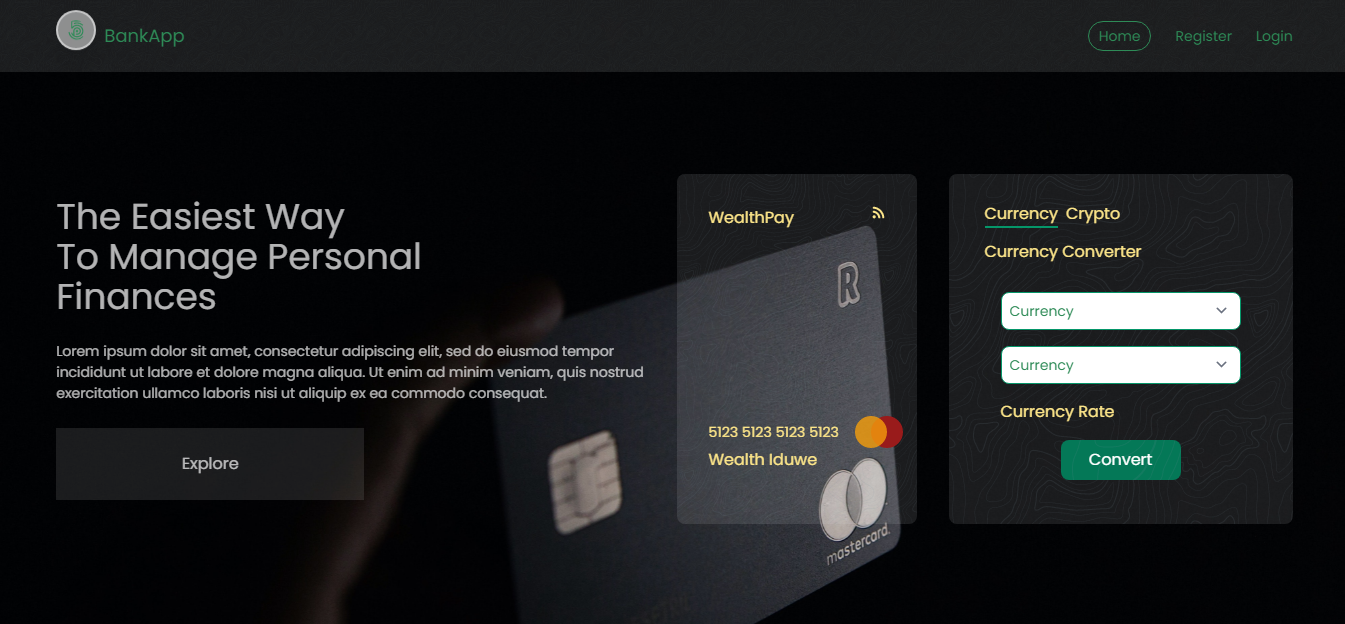
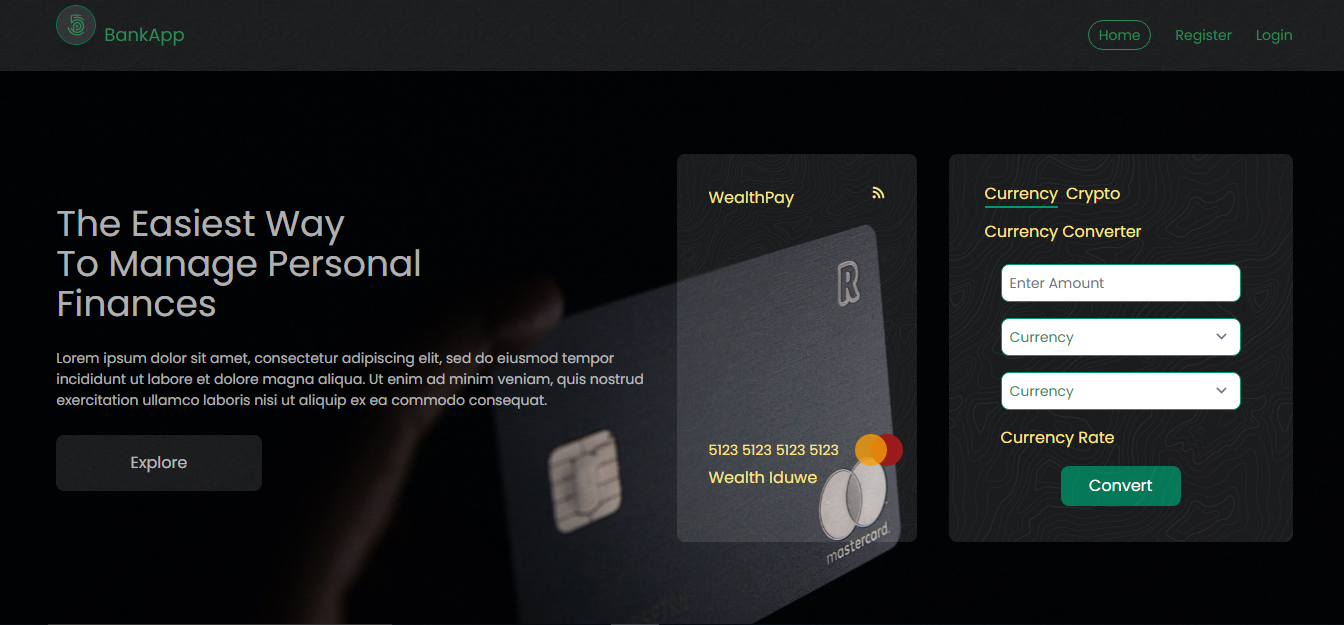
Updated Readme

diff --git a/src/components/Home.js b/src/components/Home.js
@@ -79,10 +79,15 @@ const Home = () => {
 
               <p>{type === 1 ? 'Currency Converter' : 'Crypto Converter'}</p>
 
-              <form className=' flex flex-col py-4 px-4  gap-4 '>
+              <form className=' flex flex-col py-2 px-4  gap-4 '>
                 {type === 1 ? (
                   <>
                     {' '}
+                    <input
+                      type='text'
+                      placeholder='Enter Amount '
+                      className='py-2 px-2 text-sm lg-text-base greentxt animate-slideIn w-full border border-green-600 focus:outline-none focus:ring-green-500 focus:border-green-500 rounded-lg'
+                    />
                     <select
                       className='py-2 px-2 text-sm lg-text-base greentxt animate-slideIn w-full border border-green-600 focus:outline-none focus:ring-green-500 focus:border-green-500 rounded-lg'
                       // value={selected.type}

diff --git a/README.md b/README.md
@@ -1,70 +1,21 @@
-# Getting Started with Create React App
+# Banking App
 
-This project was bootstrapped with [Create React App](https://github.com/facebook/create-react-app).
+# This Project was built using React Js.
 
-## Available Scripts
+## Available Technologies on the App
 
-In the project directory, you can run:
+REDUX, TAilWIND CSS, FIREBASE (AUTH & FIRESTORE), REACT HOOKS, CONTEXT,
 
-### `yarn start`
+## Features
 
-Runs the app in the development mode.\
-Open [http://localhost:3000](http://localhost:3000) to view it in the browser.
+User Authentication ✔
+Protected Route ✔
+Real Time Transactions ✔
+Animations ✔
+Responsiveness ✔
+Redux For State Management ✔
+Sleek User Experience ✔
 
-The page will reload if you make edits.\
-You will also see any lint errors in the console.
+![Banking App](page.png?raw=true 'Banking ')
 
-### `yarn test`
-
-Launches the test runner in the interactive watch mode.\
-See the section about [running tests](https://facebook.github.io/create-react-app/docs/running-tests) for more information.
-
-### `yarn build`
-
-Builds the app for production to the `build` folder.\
-It correctly bundles React in production mode and optimizes the build for the best performance.
-
-The build is minified and the filenames include the hashes.\
-Your app is ready to be deployed!
-
-See the section about [deployment](https://facebook.github.io/create-react-app/docs/deployment) for more information.
-
-### `yarn eject`
-
-**Note: this is a one-way operation. Once you `eject`, you can’t go back!**
-
-If you aren’t satisfied with the build tool and configuration choices, you can `eject` at any time. This command will remove the single build dependency from your project.
-
-Instead, it will copy all the configuration files and the transitive dependencies (webpack, Babel, ESLint, etc) right into your project so you have full control over them. All of the commands except `eject` will still work, but they will point to the copied scripts so you can tweak them. At this point you’re on your own.
-
-You don’t have to ever use `eject`. The curated feature set is suitable for small and middle deployments, and you shouldn’t feel obligated to use this feature. However we understand that this tool wouldn’t be useful if you couldn’t customize it when you are ready for it.
-
-## Learn More
-
-You can learn more in the [Create React App documentation](https://facebook.github.io/create-react-app/docs/getting-started).
-
-To learn React, check out the [React documentation](https://reactjs.org/).
-
-### Code Splitting
-
-This section has moved here: [https://facebook.github.io/create-react-app/docs/code-splitting](https://facebook.github.io/create-react-app/docs/code-splitting)
-
-### Analyzing the Bundle Size
-
-This section has moved here: [https://facebook.github.io/create-react-app/docs/analyzing-the-bundle-size](https://facebook.github.io/create-react-app/docs/analyzing-the-bundle-size)
-
-### Making a Progressive Web App
-
-This section has moved here: [https://facebook.github.io/create-react-app/docs/making-a-progressive-web-app](https://facebook.github.io/create-react-app/docs/making-a-progressive-web-app)
-
-### Advanced Configuration
-
-This section has moved here: [https://facebook.github.io/create-react-app/docs/advanced-configuration](https://facebook.github.io/create-react-app/docs/advanced-configuration)
-
-### Deployment
-
-This section has moved here: [https://facebook.github.io/create-react-app/docs/deployment](https://facebook.github.io/create-react-app/docs/deployment)
-
-### `yarn build` fails to minify
-
-This section has moved here: [https://facebook.github.io/create-react-app/docs/troubleshooting#npm-run-build-fails-to-minify](https://facebook.github.io/create-react-app/docs/troubleshooting#npm-run-build-fails-to-minify)
+### <a href="https://bankapp-react.netlify.app/">LIVE DEMO</a>
